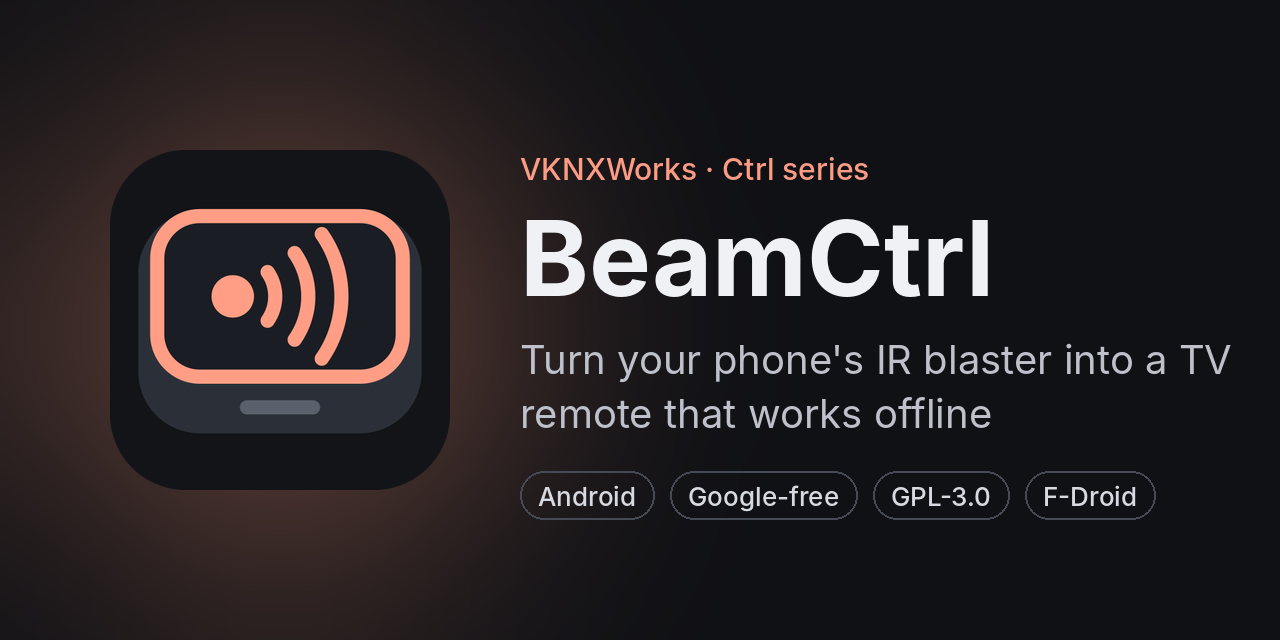
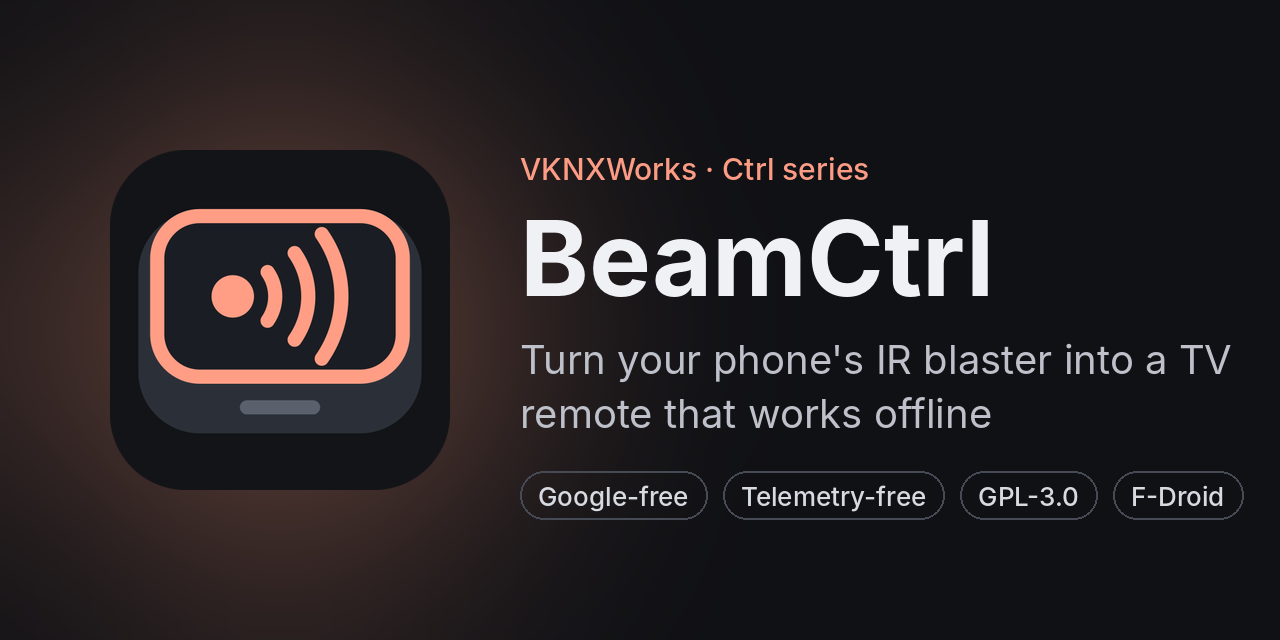
BeamCtrl 0.2.7: telemetry-free, no internet permission
- Remove the opt-in Aptabase usage stats: Telemetry.kt, the one-time
  question, the Settings group and every tracking call
- Drop android.permission.INTERNET: nothing else used the network
- Delete the two stored stats settings on first start after the update
- Drop the APTABASE_KEY/APTABASE_HOST build config and the CI key check
- README: Telemetry-free badge and a Privacy section in place of Usage stats
- Link preview image with the Telemetry-free tag

Claude-Session: https://claude.ai/code/session_01EwhEpZ1DKRJef9Cqeiv5g2

Changed region(s): [[0.4062, 0.7188, 0.9688, 0.8125]]

diff --git a/app/src/main/java/com/vknxworks/beamctrl/data/settings/AppSettings.kt b/app/src/main/java/com/vknxworks/beamctrl/data/settings/AppSettings.kt
@@ -13,6 +13,7 @@ import kotlinx.coroutines.flow.SharingStarted
 import kotlinx.coroutines.flow.StateFlow
 import kotlinx.coroutines.flow.map
 import kotlinx.coroutines.flow.stateIn
+import kotlinx.coroutines.launch
 
 val Context.appDataStore: DataStore<Preferences> by preferencesDataStore(name = "beamctrl")
 
@@ -26,10 +27,6 @@ data class AppSettings(
     val showNumberPad: Boolean = true,
     val theme: ThemeChoice = ThemeChoice.SYSTEM,
     val dynamicColor: Boolean = false,
-    /** Opt-in anonymous usage stats (off until the user says yes). */
-    val usageStats: Boolean = false,
-    /** Whether the one-time usage stats question has been answered. */
-    val usageStatsAsked: Boolean = false,
 )
 
 class SettingsRepository(private val context: Context, scope: CoroutineScope) {
@@ -40,8 +37,18 @@ class SettingsRepository(private val context: Context, scope: CoroutineScope) {
         val numbers = booleanPreferencesKey("number_pad")
         val theme = stringPreferencesKey("theme")
         val dynamic = booleanPreferencesKey("dynamic_color")
-        val usageStats = booleanPreferencesKey("usage_stats")
-        val usageStatsAsked = booleanPreferencesKey("usage_stats_asked")
+    }
+
+    init {
+        // BeamCtrl 0.2.7 removed the optional anonymous stats. Delete the two settings they used (their
+        // keys start with "usage_"), so nothing from them stays on the phone after the update.
+        scope.launch {
+            runCatching {
+                context.appDataStore.edit { p ->
+                    p.asMap().keys.filter { it.name.startsWith("usage_") }.forEach { p.remove(booleanPreferencesKey(it.name)) }
+                }
+            }
+        }
     }
 
     val settings: StateFlow<AppSettings> = context.appDataStore.data
@@ -58,8 +65,6 @@ class SettingsRepository(private val context: Context, scope: CoroutineScope) {
         showNumberPad = this[K.numbers] ?: true,
         theme = this[K.theme]?.let { n -> ThemeChoice.entries.firstOrNull { it.name == n } } ?: ThemeChoice.SYSTEM,
         dynamicColor = this[K.dynamic] ?: false,
-        usageStats = this[K.usageStats] ?: false,
-        usageStatsAsked = this[K.usageStatsAsked] ?: false,
     )
 
     suspend fun update(transform: (AppSettings) -> AppSettings) {
@@ -71,8 +76,6 @@ class SettingsRepository(private val context: Context, scope: CoroutineScope) {
             p[K.numbers] = s.showNumberPad
             p[K.theme] = s.theme.name
             p[K.dynamic] = s.dynamicColor
-            p[K.usageStats] = s.usageStats
-            p[K.usageStatsAsked] = s.usageStatsAsked
         }
     }
 }

diff --git a/app/src/main/java/com/vknxworks/beamctrl/ui/nav/AppRoot.kt b/app/src/main/java/com/vknxworks/beamctrl/ui/nav/AppRoot.kt
@@ -67,7 +67,6 @@ import com.vknxworks.beamctrl.ui.components.LocalHazeState
 import com.vknxworks.beamctrl.ui.remote.RemoteScreen
 import com.vknxworks.beamctrl.ui.remotes.RemotesScreen
 import com.vknxworks.beamctrl.ui.settings.SettingsScreen
-import com.vknxworks.beamctrl.ui.settings.UsageStatsPrompt
 import dev.chrisbanes.haze.hazeSource
 import dev.chrisbanes.haze.rememberHazeState
 
@@ -99,15 +98,6 @@ private fun MainScaffold() {
     val backStack by navController.currentBackStackEntryAsState()
     val dest = backStack?.destination
     val selectedIndex = topDestinations.indexOfFirst { top -> dest?.hierarchy?.any { it.hasRoute(top.route::class) } == true }
-
-    // Usage stats (only if the user opted in): the kind of screen, never its contents, a remote or a search.
-    val telemetry = LocalContext.current.container.telemetry
-    val entryId = backStack?.id
-    val screen = dest?.route?.let(::screenName)
-    LaunchedEffect(entryId) {
-        if (screen != null) telemetry.track("screen_viewed", mapOf("screen" to screen))
-    }
-    UsageStatsPrompt()
 
     fun selectTab(i: Int) {
         navController.navigate(topDestinations[i].route) {
@@ -194,13 +184,6 @@ private fun PhoneLayout(
         }
     }
 }
-
-/**
- * "com.vknxworks.beamctrl.ui.nav.LibraryBrandRoute/{category}/{brand}" -> "LibraryBrand". Only the route's class
- * name: arguments (remote IDs, brands, search text) are dropped.
- */
-private fun screenName(route: String): String =
-    route.substringBefore('/').substringBefore('?').substringAfterLast('.').removeSuffix("Route")
 
 @Composable
 private fun AppNavHost(navController: NavHostController) {

diff --git a/app/src/main/java/com/vknxworks/beamctrl/ui/library/LibraryScreens.kt b/app/src/main/java/com/vknxworks/beamctrl/ui/library/LibraryScreens.kt
@@ -93,15 +93,6 @@ fun LibraryScreen(initialQuery: String) {
     }
     val index = rememberLibrary(Unit) { index() }
     val results = rememberLibrary(debounced) { if (debounced.isBlank()) emptyList() else search(debounced) }
-    // Usage stats: only that a search happened (once per visit), never what was searched for.
-    val telemetry = LocalContext.current.container.telemetry
-    var searchCounted by rememberSaveable { mutableStateOf(false) }
-    LaunchedEffect(debounced) {
-        if (debounced.isNotBlank() && !searchCounted) {
-            searchCounted = true
-            telemetry.track("library_browsed", mapOf("action" to "search"))
-        }
-    }
 
     Column(Modifier.fillMaxSize()) {
         ScreenTopBar("Code library")
@@ -156,14 +147,6 @@ fun LibraryCategoryScreen(categoryIndex: Int) {
     var filter by rememberSaveable { mutableStateOf("") }
     val c = LocalContext.current.container
     val library = c.library
-    // Usage stats: the device type of the category (tv, ac…), never a brand.
-    var categoryCounted by rememberSaveable(categoryIndex) { mutableStateOf(false) }
-    LaunchedEffect(category?.index) {
-        val cat = category ?: return@LaunchedEffect
-        if (categoryCounted) return@LaunchedEffect
-        categoryCounted = true
-        c.telemetry.track("library_browsed", mapOf("action" to "category", "type" to cat.type.name.lowercase()))
-    }
 
     Column(Modifier.fillMaxSize()) {
         ScreenTopBar(category?.name ?: "Code library")

diff --git a/app/src/main/java/com/vknxworks/beamctrl/ui/settings/SettingsScreen.kt b/app/src/main/java/com/vknxworks/beamctrl/ui/settings/SettingsScreen.kt
@@ -15,7 +15,6 @@ import androidx.compose.foundation.rememberScrollState
 import androidx.compose.foundation.verticalScroll
 import androidx.compose.material.icons.Icons
 import androidx.compose.material.icons.filled.Backup
-import androidx.compose.material.icons.filled.BarChart
 import androidx.compose.material.icons.filled.BugReport
 import androidx.compose.material.icons.filled.Code
 import androidx.compose.material.icons.filled.DarkMode
@@ -177,17 +176,6 @@ fun SettingsScreen() {
                 icon = Icons.Filled.Restore,
                 onClick = { restoreBackup.launch(arrayOf("application/json", "text/plain", "application/octet-stream")) },
             )
-        }
-
-        if (c.telemetry.available) {
-            Group("Usage stats", footer = USAGE_STATS_DESCRIPTION) {
-                GroupSwitch(
-                    "Share anonymous usage stats",
-                    "Helps decide what to improve next",
-                    checked = settings.usageStats,
-                    icon = Icons.Filled.BarChart,
-                ) { v -> set { it.copy(usageStats = v, usageStatsAsked = true) } }
-            }
         }
 
         Group(stringResource(R.string.group_about)) {

diff --git a/app/src/main/java/com/vknxworks/beamctrl/ui/remote/RemoteScreen.kt b/app/src/main/java/com/vknxworks/beamctrl/ui/remote/RemoteScreen.kt
@@ -91,8 +91,6 @@ fun RemoteScreen(id: String, startEditing: Boolean) {
     var renaming by remember { mutableStateOf(false) }
     var pickingType by remember { mutableStateOf(false) }
     var confirmDelete by remember { mutableStateOf(false) }
-    // Usage stats count a remote as used once per visit, by its device type only.
-    var usedCounted by remember(id) { mutableStateOf(false) }
 
     val exportIr = rememberLauncherForActivityResult(ActivityResultContracts.CreateDocument("application/octet-stream")) { uri ->
         val r = remote ?: return@rememberLauncherForActivityResult
@@ -129,10 +127,6 @@ fun RemoteScreen(id: String, startEditing: Boolean) {
         onEdit = { button, role -> editTarget = EditTarget(button, role) },
         onSent = {
             c.remotes.markUsed(id)
-            if (!usedCounted) {
-                usedCounted = true
-                c.telemetry.track("remote_used", mapOf("type" to remote.type.name.lowercase()))
-            }
         },
     )
 

diff --git a/app/src/main/java/com/vknxworks/beamctrl/AppContainer.kt b/app/src/main/java/com/vknxworks/beamctrl/AppContainer.kt
@@ -3,7 +3,6 @@ package com.vknxworks.beamctrl
 import android.content.Context
 import com.vknxworks.beamctrl.data.RemoteRepository
 import com.vknxworks.beamctrl.data.settings.SettingsRepository
-import com.vknxworks.beamctrl.data.telemetry.Telemetry
 import com.vknxworks.beamctrl.ir.Blaster
 import com.vknxworks.beamctrl.ir.IrLibrary
 import kotlinx.coroutines.CoroutineScope
@@ -18,7 +17,6 @@ class AppContainer(val context: Context) {
     val remotes = RemoteRepository(context, appScope)
     val blaster = Blaster(context)
     val library = IrLibrary(context)
-    val telemetry = Telemetry(context, settings, appScope, hasIr = blaster.available)
 }
 
 val Context.container: AppContainer

diff --git a/app/src/main/java/com/vknxworks/beamctrl/ui/library/LibraryDeviceScreen.kt b/app/src/main/java/com/vknxworks/beamctrl/ui/library/LibraryDeviceScreen.kt
@@ -128,7 +128,6 @@ fun LibraryDeviceScreen(id: Int) {
                                     val saved = c.remotes.add(
                                         preview.copy(id = java.util.UUID.randomUUID().toString(), name = name.trim().ifEmpty { s.device.title }),
                                     )
-                                    c.telemetry.track("library_browsed", mapOf("action" to "saved", "type" to type.name.lowercase()))
                                     nav.openRemote(saved.id, fromAdd = true)
                                 },
                                 icon = Icons.Filled.Check,

diff --git a/app/src/main/java/com/vknxworks/beamctrl/ui/poweroff/PowerOffScreen.kt b/app/src/main/java/com/vknxworks/beamctrl/ui/poweroff/PowerOffScreen.kt
@@ -92,8 +92,6 @@ fun PowerOffScreen() {
     fun start(from: Int) {
         val list = codes ?: return
         finished = false
-        // Usage stats: only that it was started, and whether it carried on from where it stopped.
-        c.telemetry.track("power_off_used", mapOf("resumed" to (from > 0).toString()))
         job = scope.launch {
             running = true
             try {

diff --git a/app/src/main/java/com/vknxworks/beamctrl/MainActivity.kt b/app/src/main/java/com/vknxworks/beamctrl/MainActivity.kt
@@ -22,7 +22,6 @@ class MainActivity : ComponentActivity() {
         super.onCreate(savedInstanceState)
         enableEdgeToEdge()
         val c = container
-        if (savedInstanceState == null) c.telemetry.appOpened()
         setContent {
             val settings by c.settings.settings.collectAsStateWithLifecycle()
             val dark = when (settings.theme) {

diff --git a/README.md b/README.md
@@ -2,7 +2,7 @@
 
 **Turn your phone's IR blaster into a TV remote.**
 
-[![Latest release](https://img.shields.io/github/v/release/VoidedKN0X/BeamCtrl?label=download)](https://github.com/VoidedKN0X/BeamCtrl/releases/latest) ![Android 13+](https://img.shields.io/badge/Android-13%2B-3DDC84?logo=android&logoColor=white) [![License: GPL-3.0](https://img.shields.io/badge/license-GPL--3.0-blue)](LICENSE) [![Sponsor](https://img.shields.io/badge/sponsor-GitHub-ea4aaa?logo=githubsponsors&logoColor=white)](https://github.com/sponsors/VoidedKN0X)
+[![Latest release](https://img.shields.io/github/v/release/VoidedKN0X/BeamCtrl?label=download)](https://github.com/VoidedKN0X/BeamCtrl/releases/latest) ![Android 13+](https://img.shields.io/badge/Android-13%2B-3DDC84?logo=android&logoColor=white) [![License: GPL-3.0](https://img.shields.io/badge/license-GPL--3.0-blue)](LICENSE) ![Telemetry-free](https://img.shields.io/badge/telemetry-none-brightgreen) [![Sponsor](https://img.shields.io/badge/sponsor-GitHub-ea4aaa?logo=githubsponsors&logoColor=white)](https://github.com/sponsors/VoidedKN0X)
 
 BeamCtrl is a remote control app for Android phones with an infrared (IR) blaster. Find your device in the built-in code library, pick your TV brand or import a Flipper Zero file, and control it from your phone.
 
@@ -13,7 +13,7 @@ Part of the [Ctrl series](#the-ctrl-series) by VKNXWorks.
 ## Features
 
 - **Code library with 8,500+ remotes** for TVs, soundbars, projectors, air conditioners, fans, lights and more, built into the app, so it works offline
-- **Works fully offline.** Nothing you do in BeamCtrl needs the internet; the only thing that can go online is the optional usage stats below, and only if you say yes
+- **Works fully offline.** BeamCtrl doesn't have the internet permission and never goes online
 - **Try every button before you save** a remote
 - **Turn off any TV**: sends every TV power code in turn until the TV switches off
 - **Ready-made remotes** for Samsung, LG, Sony, Philips and Vizio TVs, and **Find my TV** to work out which one yours uses
@@ -34,7 +34,7 @@ Coming soon.
 
 - Android 13 or newer
 - A phone with a built-in IR blaster (many Xiaomi, OPPO, Honor, Huawei and Vivo phones have one)
-- Permissions: the IR blaster, and internet only for the optional [usage stats](#usage-stats)
+- Permissions: the IR blaster only (no internet)
 - **Google-free:** works without Google Play services, contains no Google libraries that contact Google, and draws emoji with your phone's own emoji font
 
 ## Install
@@ -62,16 +62,12 @@ If the Obtainium button doesn't open the app, add `https://github.com/VoidedKN0X
 
 Phones can only **send** infrared, not receive it, so BeamCtrl can't learn codes from your existing remote. Use the code library, a ready-made remote or a Flipper Zero file instead.
 
-## Usage stats
+## Privacy
 
-BeamCtrl can share anonymous usage stats, **only if you say yes**. It asks once when you first open the app, and you can change it any time in **Settings > Usage stats**. The app works exactly the same either way, fully offline.
+**Telemetry-free.** BeamCtrl has no analytics, crash reporting, usage stats or tracking of any kind. It has no internet permission, works fully offline and never connects to the internet.
 
-- **Why the app has the internet permission:** this is the only thing it's used for. Remotes, the code library, Turn off any TV, imports and backups never go online, and with stats off (the default) BeamCtrl sends nothing at all. Switching them off also throws away anything not yet sent.
-- **Shared:** which screens you open (the kind of screen, never which remote), the kind of device a remote is for (TV, air conditioner, projector and so on) when you use it, that you searched or browsed the code library, which device type you picked and that you saved a remote from it, that you used Turn off any TV (and whether it carried on from where it stopped), whether your phone has an IR blaster, the app version, Android version, phone model, language, and phone or tablet.
-- **Never shared:** your remotes' names, brands, models or IR codes, what you search for, files you import, or any ID that stays the same between sessions.
-- **Where:** VKNXWorks' own self-hosted [Aptabase](https://aptabase.com) server. Nothing goes to Google or analytics companies. Like any website, the server sees your IP address; Aptabase uses it only to work out the country and doesn't store it.
-
-Builds from source don't include the stats key, so they can't send anything and the setting is hidden. The code is in [`Telemetry.kt`](app/src/main/java/com/vknxworks/beamctrl/data/telemetry/Telemetry.kt).
+- Remotes, the code library, Turn off any TV, imports and backups all stay on your phone.
+- The Support, Report a bug, Source code and Licence links in Settings open in your browser, only when you tap them.
 
 ## Build from source
 

diff --git a/CHANGELOG.md b/CHANGELOG.md
@@ -4,11 +4,16 @@ What changed in each BeamCtrl release. Every release on the [Releases page](http
 
 To publish a new version: bump `versionCode` and `versionName` in `app/build.gradle.kts`, add a section here, and push to `main`. Pushes without a version bump only build; they don't make a release.
 
-## Unreleased
+## v0.2.7 (2026-10-20)
+
+### Privacy
+
+- **No more usage stats: BeamCtrl is now telemetry-free.** The optional anonymous usage stats are gone completely, along with the Usage stats setting and the one-time question. The app no longer contacts VKNXWorks' stats server at all, and the settings it used are deleted from your phone when you update
+- **No internet permission any more.** The stats were the only thing that used it, so BeamCtrl no longer asks for it and can never connect to the internet. Remotes, the code library, Turn off any TV, imports and backups always worked offline and still do
 
 ### Changed
 
-- **README**: a Screenshots section (screenshots are coming soon), and a link preview image (`.github/assets/social-preview.png`) with BeamCtrl's icon, name and summary, for when the repo is shared on Reddit, Discord or elsewhere
+- **README**: a Screenshots section (screenshots are coming soon), and a link preview image (`.github/assets/social-preview.png`) with BeamCtrl's icon, name and summary, for when the repo is shared on Reddit, Discord or elsewhere. It also gets a "Telemetry-free" badge and tag, and a Privacy section in place of the old Usage stats section, and the permissions list now says the IR blaster only
 
 ## v0.2.6 (2026-10-19)
 
